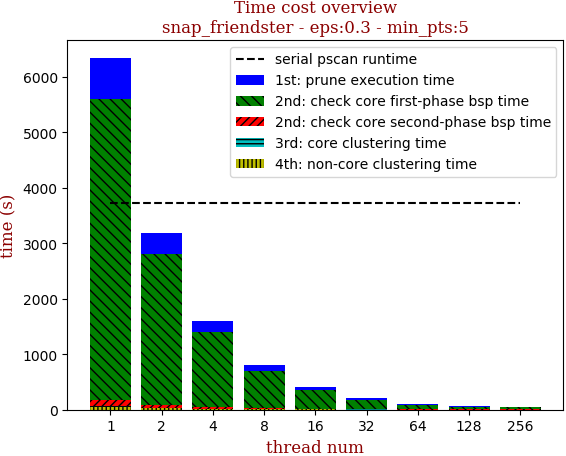
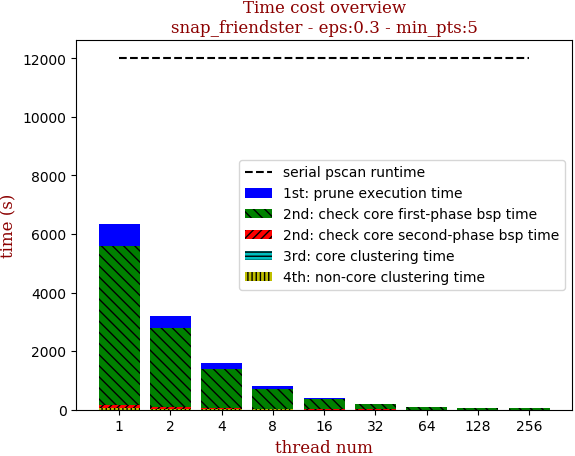
update scalability exp snap_friendster

diff --git a/paper/set-intersection/run_set_intersection_exp_gpu_23.py b/paper/set-intersection/run_set_intersection_exp_gpu_23.py
@@ -16,14 +16,17 @@ if __name__ == '__main__':
     ppscan2_path = '/ghome/yche/projects/pSCAN-refactor/build/pSCANParallelExp2'
     exec_path_lst = [ppscan0_path, ppscan1_path, ppscan2_path]
 
-    profiler_tag_lst = ['advanced-hotspots', 'memory-access', 'general-exploration']
+    # profiler_tag_lst = ['advanced-hotspots', 'memory-access', 'general-exploration']
+    profiler_tag_lst = ['general-exploration']
 
-    sample_interval_lst = [10, 10, 100, 100]
+    # sample_interval_lst = [10, 10, 100, 100]
     for idx, dataset_path in enumerate(dataset_path_lst):
-        profiler_knob_tag_lst = ['-knob sampling-interval=' + str(sample_interval_lst[idx]),
-                                 '-knob sampling-interval=' + str(sample_interval_lst[idx]),
-                                 '-knob collect-memory-bandwidth=true '
-                                 '-knob enable-user-tasks=false -knob analyze-openmp=false']
+        # profiler_knob_tag_lst = ['-knob sampling-interval=' + str(sample_interval_lst[idx]),
+        #                          '-knob sampling-interval=' + str(sample_interval_lst[idx]),
+        #                          '-knob collect-memory-bandwidth=true '
+        #                          '-knob enable-user-tasks=false -knob analyze-openmp=false']
+        profiler_knob_tag_lst = [
+            '-knob collect-memory-bandwidth=true -knob enable-user-tasks=false']
         dataset_name = dataset_path.split(os.sep)[-1].split('_')[-1]
 
         for eps in eps_lst:

diff --git a/python_experiments/scalability_differ_eps_knl.py b/python_experiments/scalability_differ_eps_knl.py
@@ -37,8 +37,8 @@ if __name__ == '__main__':
     os.system('mkdir -p ./figures/' + figure_folder)
     os.system('mkdir -p ' + markdown_folder)
     min_pts = 5
-    # eps_lst = [float(i + 1) / 10 for i in xrange(9)]
-    eps_lst = [0.1, 0.2]
+    eps_lst = [float(i + 1) / 10 for i in xrange(9)]
+    # eps_lst = [0.1, 0.2, 0.3, 0.4, 0.5, 0.6, 0.7]
 
     for data_set in data_set_lst:
         with open(markdown_folder + os.sep + data_set + '.md', 'w') as ifs:

diff --git a/python_experiments/case_studies/figures-case-study14-scalability-knl/snap_friendster.md b/python_experiments/case_studies/figures-case-study14-scalability-knl/snap_friendster.md
@@ -34,3 +34,129 @@ thread_num | prune | check-core 1st bsp | check-core 2nd bsp | cluster-core | cl
 128 | 8.878s | 56.663s | 4.247s | 2.677s | 4.901s | 77.371s | 100.932
 256 | 6.696s | 43.754s | 3.163s | 2.837s | 4.304s | 60.758s | 128.529
 
+## eps:0.3
+
+overview | speedup
+--- | ---
+![snap_friendster-overview](../../figures/scalability_simd_paper/snap_friendster-eps:0.3-min_pts:5-overview.png) | ![snap_friendster-runtime-speedup](../../figures/scalability_simd_paper/snap_friendster-eps:0.3-min_pts:5-runtime-speedup.png)
+
+thread_num | prune | check-core 1st bsp | check-core 2nd bsp | cluster-core | cluster-non-core | total | total speedup
+--- | --- | --- | --- | --- | --- | --- | ---
+1 | 744.535s | 5429.591s | 101.873s | 17.765s | 53.064s | 6346.832s | 1.000
+2 | 386.753s | 2715.207s | 50.976s | 9.486s | 27.516s | 3189.943s | 1.990
+4 | 194.127s | 1360.522s | 25.392s | 5.16s | 14.144s | 1599.349s | 3.968
+8 | 98.764s | 681.863s | 12.62s | 3.091s | 7.938s | 804.28s | 7.891
+16 | 48.811s | 339.348s | 6.436s | 1.818s | 5.051s | 401.468s | 15.809
+32 | 24.258s | 174.648s | 3.494s | 1.477s | 3.05s | 206.931s | 30.671
+64 | 13.293s | 88.096s | 2.109s | 1.106s | 1.921s | 106.527s | 59.580
+128 | 8.679s | 48.882s | 1.666s | 1.356s | 1.542s | 62.128s | 102.157
+256 | 6.185s | 37.33s | 1.593s | 1.532s | 1.6s | 48.243s | 131.560
+
+## eps:0.4
+
+overview | speedup
+--- | ---
+![snap_friendster-overview](../../figures/scalability_simd_paper/snap_friendster-eps:0.4-min_pts:5-overview.png) | ![snap_friendster-runtime-speedup](../../figures/scalability_simd_paper/snap_friendster-eps:0.4-min_pts:5-runtime-speedup.png)
+
+thread_num | prune | check-core 1st bsp | check-core 2nd bsp | cluster-core | cluster-non-core | total | total speedup
+--- | --- | --- | --- | --- | --- | --- | ---
+1 | 716.118s | 4148.362s | 72.63s | 2.878s | 7.638s | 4947.628s | 1.000
+2 | 371.966s | 2076.83s | 36.698s | 1.787s | 3.999s | 2491.284s | 1.986
+4 | 186.898s | 1040.229s | 17.987s | 1.204s | 2.137s | 1248.457s | 3.963
+8 | 93.428s | 517.115s | 8.999s | 0.934s | 1.275s | 621.753s | 7.958
+16 | 47.749s | 263.916s | 4.662s | 0.833s | 0.917s | 318.08s | 15.555
+32 | 23.623s | 133.169s | 2.427s | 0.775s | 0.612s | 160.608s | 30.806
+64 | 12.92s | 68.268s | 1.689s | 0.789s | 0.444s | 84.114s | 58.821
+128 | 8.47s | 37.716s | 1.565s | 0.813s | 0.598s | 49.165s | 100.633
+256 | 6.082s | 28.208s | 1.563s | 0.907s | 0.879s | 37.643s | 131.436
+
+## eps:0.5
+
+overview | speedup
+--- | ---
+![snap_friendster-overview](../../figures/scalability_simd_paper/snap_friendster-eps:0.5-min_pts:5-overview.png) | ![snap_friendster-runtime-speedup](../../figures/scalability_simd_paper/snap_friendster-eps:0.5-min_pts:5-runtime-speedup.png)
+
+thread_num | prune | check-core 1st bsp | check-core 2nd bsp | cluster-core | cluster-non-core | total | total speedup
+--- | --- | --- | --- | --- | --- | --- | ---
+1 | 677.199s | 3003.765s | 64.607s | 1.091s | 2.003s | 3748.668s | 1.000
+2 | 348.532s | 1497.121s | 32.029s | 0.851s | 1.035s | 1879.571s | 1.994
+4 | 175.977s | 751.257s | 15.99s | 0.75s | 0.581s | 944.559s | 3.969
+8 | 88.142s | 373.888s | 8.0s | 0.69s | 0.361s | 471.083s | 7.958
+16 | 44.118s | 188.181s | 4.148s | 0.664s | 0.241s | 237.356s | 15.793
+32 | 22.17s | 95.454s | 2.319s | 0.663s | 0.194s | 120.803s | 31.031
+64 | 12.082s | 48.857s | 1.645s | 0.663s | 0.21s | 63.461s | 59.070
+128 | 8.221s | 27.09s | 1.367s | 0.692s | 0.288s | 37.662s | 99.534
+256 | 5.644s | 20.006s | 1.434s | 0.718s | 0.398s | 28.202s | 132.922
+
+## eps:0.6
+
+overview | speedup
+--- | ---
+![snap_friendster-overview](../../figures/scalability_simd_paper/snap_friendster-eps:0.6-min_pts:5-overview.png) | ![snap_friendster-runtime-speedup](../../figures/scalability_simd_paper/snap_friendster-eps:0.6-min_pts:5-runtime-speedup.png)
+
+thread_num | prune | check-core 1st bsp | check-core 2nd bsp | cluster-core | cluster-non-core | total | total speedup
+--- | --- | --- | --- | --- | --- | --- | ---
+1 | 616.208s | 2034.604s | 55.846s | 0.752s | 1.175s | 2708.588s | 1.000
+2 | 311.557s | 1023.508s | 28.066s | 0.677s | 0.597s | 1364.408s | 1.985
+4 | 160.53s | 512.556s | 14.086s | 0.654s | 0.329s | 688.157s | 3.936
+8 | 80.471s | 252.734s | 6.992s | 0.63s | 0.219s | 341.05s | 7.942
+16 | 40.01s | 127.062s | 3.722s | 0.63s | 0.147s | 171.574s | 15.787
+32 | 21.755s | 66.179s | 2.169s | 0.632s | 0.112s | 90.85s | 29.814
+64 | 11.306s | 33.466s | 1.465s | 0.633s | 0.142s | 47.014s | 57.612
+128 | 7.434s | 18.411s | 1.149s | 0.656s | 0.198s | 27.851s | 97.253
+256 | 5.522s | 12.867s | 1.356s | 0.69s | 0.255s | 20.693s | 130.894
+
+## eps:0.7
+
+overview | speedup
+--- | ---
+![snap_friendster-overview](../../figures/scalability_simd_paper/snap_friendster-eps:0.7-min_pts:5-overview.png) | ![snap_friendster-runtime-speedup](../../figures/scalability_simd_paper/snap_friendster-eps:0.7-min_pts:5-runtime-speedup.png)
+
+thread_num | prune | check-core 1st bsp | check-core 2nd bsp | cluster-core | cluster-non-core | total | total speedup
+--- | --- | --- | --- | --- | --- | --- | ---
+1 | 545.494s | 1261.849s | 46.577s | 0.662s | 0.981s | 1855.567s | 1.000
+2 | 282.671s | 632.786s | 23.242s | 0.631s | 0.494s | 939.827s | 1.974
+4 | 142.415s | 316.901s | 11.597s | 0.62s | 0.269s | 471.806s | 3.933
+8 | 71.372s | 157.281s | 5.79s | 0.615s | 0.192s | 235.254s | 7.888
+16 | 36.048s | 78.77s | 3.047s | 0.612s | 0.124s | 118.604s | 15.645
+32 | 17.85s | 40.39s | 1.858s | 0.62s | 0.101s | 60.822s | 30.508
+64 | 10.083s | 20.711s | 1.276s | 0.629s | 0.13s | 32.833s | 56.515
+128 | 7.017s | 11.773s | 1.076s | 0.642s | 0.191s | 20.702s | 89.632
+256 | 5.152s | 8.325s | 1.241s | 0.676s | 0.252s | 15.649s | 118.574
+
+## eps:0.8
+
+overview | speedup
+--- | ---
+![snap_friendster-overview](../../figures/scalability_simd_paper/snap_friendster-eps:0.8-min_pts:5-overview.png) | ![snap_friendster-runtime-speedup](../../figures/scalability_simd_paper/snap_friendster-eps:0.8-min_pts:5-runtime-speedup.png)
+
+thread_num | prune | check-core 1st bsp | check-core 2nd bsp | cluster-core | cluster-non-core | total | total speedup
+--- | --- | --- | --- | --- | --- | --- | ---
+1 | 475.792s | 687.779s | 36.669s | 0.63s | 0.928s | 1201.801s | 1.000
+2 | 246.993s | 343.995s | 18.288s | 0.611s | 0.465s | 610.355s | 1.969
+4 | 124.112s | 172.497s | 9.213s | 0.608s | 0.238s | 306.671s | 3.919
+8 | 62.812s | 85.984s | 4.679s | 0.611s | 0.144s | 154.232s | 7.792
+16 | 31.7s | 42.92s | 2.376s | 0.609s | 0.116s | 77.724s | 15.462
+32 | 15.589s | 21.893s | 1.478s | 0.611s | 0.089s | 39.664s | 30.300
+64 | 8.688s | 11.383s | 1.02s | 0.622s | 0.1s | 21.816s | 55.088
+128 | 6.458s | 6.531s | 1.156s | 0.635s | 0.196s | 14.98s | 80.227
+256 | 5.088s | 4.442s | 1.292s | 0.666s | 0.252s | 11.743s | 102.342
+
+## eps:0.9
+
+overview | speedup
+--- | ---
+![snap_friendster-overview](../../figures/scalability_simd_paper/snap_friendster-eps:0.9-min_pts:5-overview.png) | ![snap_friendster-runtime-speedup](../../figures/scalability_simd_paper/snap_friendster-eps:0.9-min_pts:5-runtime-speedup.png)
+
+thread_num | prune | check-core 1st bsp | check-core 2nd bsp | cluster-core | cluster-non-core | total | total speedup
+--- | --- | --- | --- | --- | --- | --- | ---
+1 | 414.199s | 283.01s | 24.293s | 0.611s | 0.902s | 723.018s | 1.000
+2 | 215.501s | 141.761s | 12.154s | 0.604s | 0.453s | 370.476s | 1.952
+4 | 108.847s | 70.633s | 6.073s | 0.604s | 0.231s | 186.392s | 3.879
+8 | 55.256s | 35.246s | 3.154s | 0.606s | 0.165s | 94.43s | 7.657
+16 | 27.832s | 17.789s | 1.738s | 0.613s | 0.104s | 48.08s | 15.038
+32 | 13.725s | 9.043s | 1.166s | 0.61s | 0.104s | 24.651s | 29.330
+64 | 7.826s | 4.869s | 0.941s | 0.616s | 0.11s | 14.365s | 50.332
+128 | 5.744s | 2.928s | 1.106s | 0.63s | 0.157s | 10.568s | 68.416
+256 | 4.44s | 4.999s | 1.114s | 0.666s | 0.285s | 11.508s | 62.827
+
